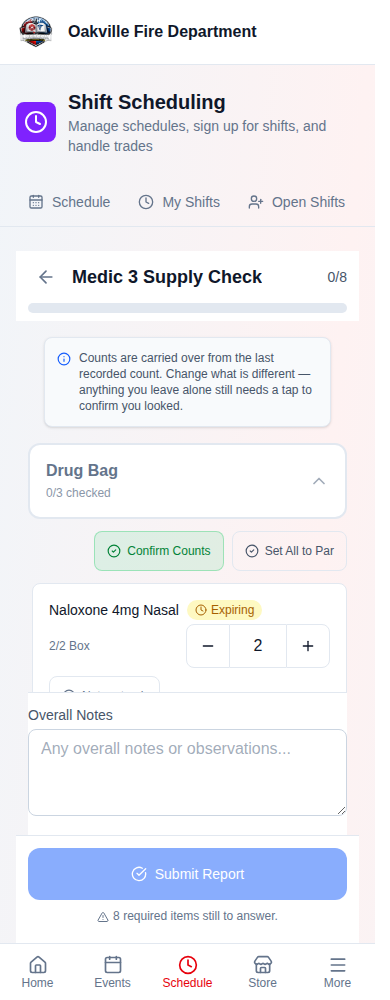
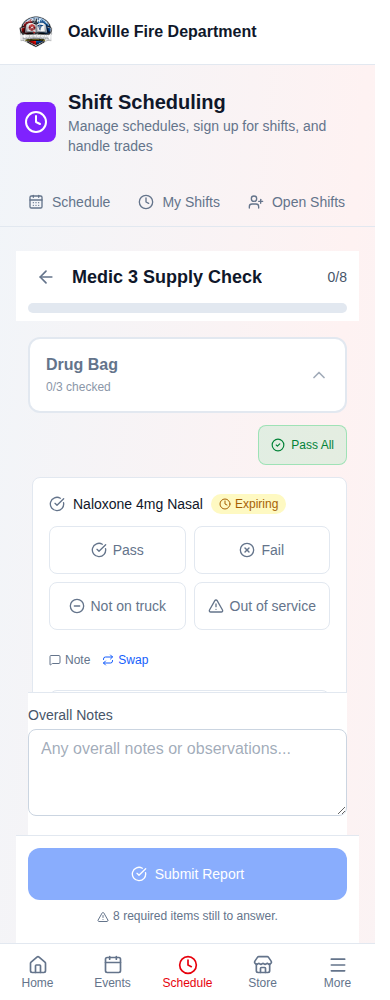
Re-verify the equipment-check captures against main's lap redesign
CheckLap, CheckItemControls and checkLapModel landed after the phone sweep and
rebuild this screen around walking-order stops. Five of the six equipment-check
captures re-shoot cleanly against it and were opened and checked;
03-71-set-all-to-par-confirm does not, and its committed image now predates the
redesign too.

Recorded rather than guessed at, with what is already ruled out so the next
attempt does not repeat it: the Trauma Bag stop is open (aria-expanded reads
true before anything is clicked), its pass/fail item and the gloves' own lot and
expiry row both render, and no compartment on this template is sealed
(is_sealed is 0 for all three), so the seal-clears-counts branch in
checkLapModel is not what hides the stepper.

The capture failure turned up something larger. 03-72-check-item-controls, shot
from the same screen, shows Nitrile Gloves rendering Pass / Fail / Not on truck
/ Out of service -- the function control -- while the API serves that item as
checkType "quantity" and normalizeCheckType maps quantity to count. On the same
screen 03-70 shows Naloxone, also quantity, with the stepper. The type reaches
the client intact and the same type renders two different controls depending on
something else. A crew answering the gloves that way records no count, and "Set
all to par" has nothing to act on. That is a behaviour question for whoever owns
the lap design, not a screenshot one, so it is written down rather than patched
blind.
[…]

Changed region(s): [[0.0923, 0.465, 0.8615, 0.682], [0.0923, 0.341, 0.8923, 0.527]]

diff --git a/docs/training/SCREENSHOT_CURRENCY.md b/docs/training/SCREENSHOT_CURRENCY.md
@@ -2,6 +2,28 @@
 
 ## Re-captured 2026-08-23 — the phone sweep at 390x844, and what it exposed
 
+**Amended after merging main's shift-check lap redesign.** `CheckLap`,
+`CheckItemControls` and `checkLapModel` landed after the sweep and rebuild this
+screen around walking-order stops. Five of the six equipment-check captures
+re-shot cleanly against it and were checked; `03-71-set-all-to-par-confirm` did
+not, and its committed image now predates the redesign as well.
+
+What is ruled out, so the next attempt does not repeat it: the Trauma Bag stop
+_is_ open (`aria-expanded` reads true before anything is clicked), its pass/fail
+item and the gloves' own lot and expiry row both render, and no compartment on
+this template is sealed — `is_sealed` is 0 for all three — so the
+seal-clears-counts branch in `checkLapModel` is not what is hiding it. What is
+missing is the quantity stepper and the item's own name. The shot's `prepare`
+was made lap-aware anyway (it reads `aria-expanded` instead of blind-toggling,
+and accepts both the old `Decrease X quantity` and the new `One fewer X`
+labels), and is left failing rather than quietly dropped.
+
+**Two of main's renames cost a shot each, silently.** The phone menu control
+became "Open full navigation menu" and the quantity stepper became
+"One fewer <item>". Both matchers now carry the older spellings alongside the
+current one — a capture that fails is cheap, a capture that succeeds against
+the wrong element is not.
+
 All 21 phone-width captures re-shot and opened. The trigger was the entry below:
 the mobile bottom bar no longer paints over an open dialog, so every phone
 capture containing one pictured the defect. That is confirmed fixed — `03-71`
